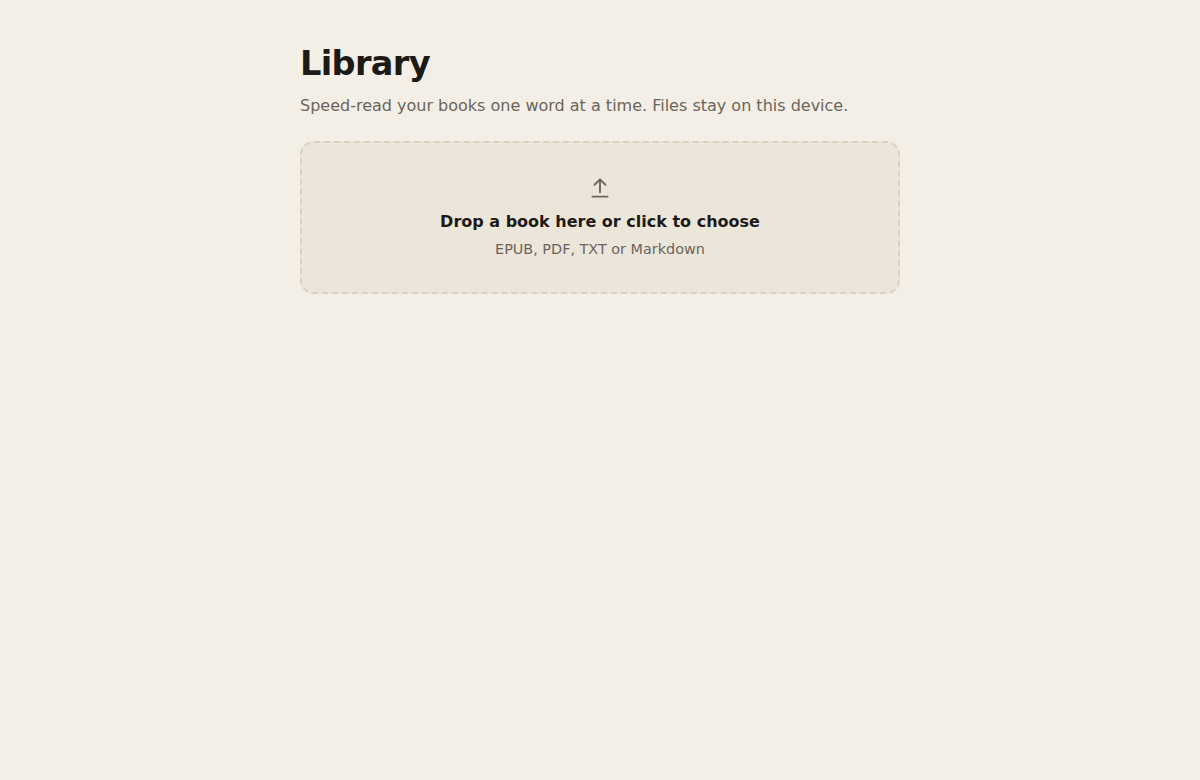
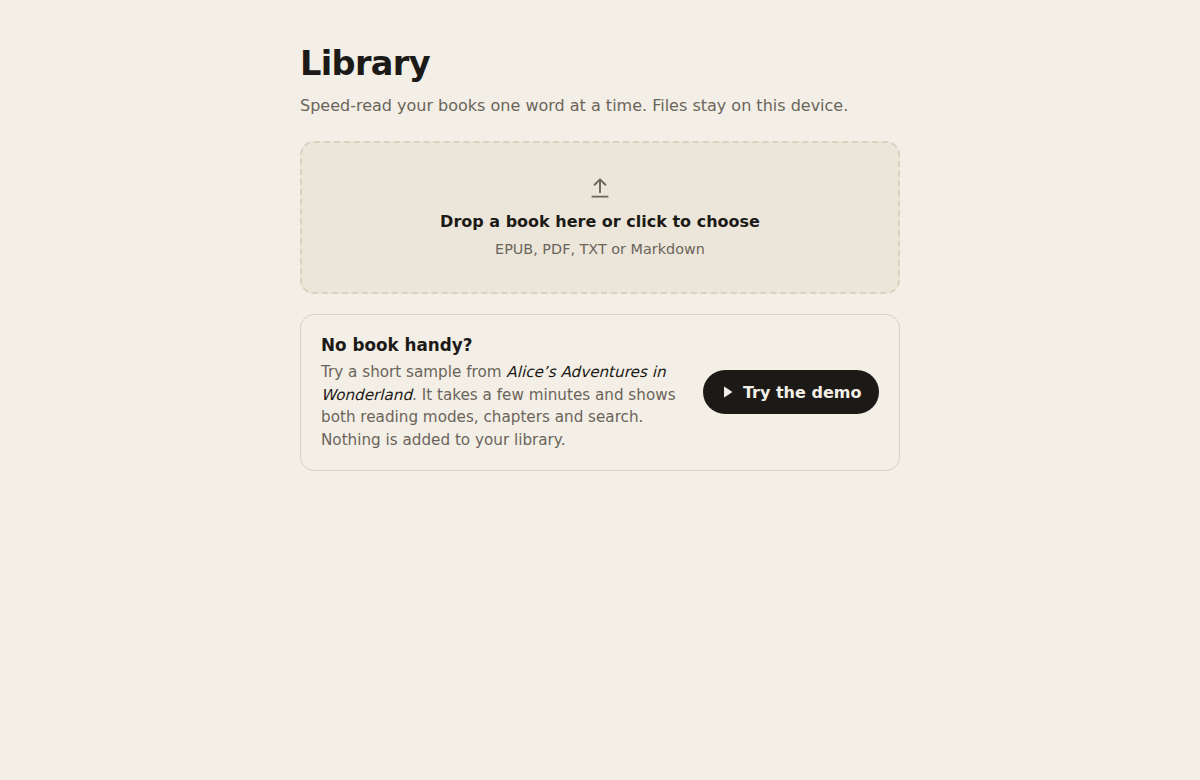
Offer a demo book while the library is empty
First-time visitors had nothing to try without finding a file. While the
library is empty (and only once it has loaded, so it never flashes for
returning readers), the library shows a 'Try the demo' card that opens a
short built-in sample: a 'Before you start' chapter with tips, then the
opening of Alice's Adventures in Wonderland (public domain) with real
chapter headings, so both modes, chapters and search can be tried.

The sample is built in memory and lazy-loaded; it is never added to the
library and its progress isn't saved. The card disappears once a book is
added and returns if every book is removed.

Changed region(s): [[0.2467, 0.4308, 0.555, 0.5846], [0.5858, 0.4615, 0.74, 0.5538]]

diff --git a/src/lib/demo.ts b/src/lib/demo.ts
@@ -1,0 +1,57 @@
+import { buildBook, type Section } from './text'
+import type { Book } from './types'
+
+/**
+ * A short sample book for people who haven't added one yet, so they can try
+ * both reading modes, chapters and search straight away. It is built in
+ * memory and never saved to the library.
+ *
+ * The Alice text is from Lewis Carroll's "Alice's Adventures in Wonderland"
+ * (1865), which is in the public domain.
+ */
+export const DEMO_ID = 'demo:alice'
+export const DEMO_TITLE = 'Alice’s Adventures in Wonderland'
+
+const SECTIONS: Section[] = [
+  {
+    title: 'Before you start',
+    headings: [0],
+    paragraphs: [
+      'Before you start',
+      'This is a short sample so you can see how reading works here. Press play, or tap the word, and the text will appear one word at a time, always in the same spot, so your eyes can stay still.',
+      'Tap again to pause, and the words around you appear so you can find your place. Use the plus and minus buttons to change your speed.',
+      'Open the Aa menu to switch to page mode, where the whole page stays in view and a marker follows along as you read. You can also search for any word or phrase. Try searching for rabbit.',
+      'When you are ready, add a book of your own from the library. It stays on your device.',
+    ],
+  },
+  {
+    title: 'Chapter I: Down the Rabbit-Hole',
+    headings: [0, 1],
+    paragraphs: [
+      'Chapter I',
+      'Down the Rabbit-Hole',
+      'Alice was beginning to get very tired of sitting by her sister on the bank, and of having nothing to do: once or twice she had peeped into the book her sister was reading, but it had no pictures or conversations in it, “and what is the use of a book,” thought Alice, “without pictures or conversations?”',
+      'So she was considering in her own mind (as well as she could, for the hot day made her feel very sleepy and stupid), whether the pleasure of making a daisy-chain would be worth the trouble of getting up and picking the daisies, when suddenly a White Rabbit with pink eyes ran close by her.',
+      'There was nothing so very remarkable in that; nor did Alice think it so very much out of the way to hear the Rabbit say to itself, “Oh dear! Oh dear! I shall be late!” (when she thought it over afterwards, it occurred to her that she ought to have wondered at this, but at the time it all seemed quite natural); but when the Rabbit actually took a watch out of its waistcoat-pocket, and looked at it, and then hurried on, Alice started to her feet, for it flashed across her mind that she had never before seen a rabbit with either a waistcoat-pocket, or a watch to take out of it, and burning with curiosity, she ran across the field after it, and fortunately was just in time to see it pop down a large rabbit-hole under the hedge.',
+      'In another moment down went Alice after it, never once considering how in the world she was to get out again.',
+      'The rabbit-hole went straight on like a tunnel for some way, and then dipped suddenly down, so suddenly that Alice had not a moment to think about stopping herself before she found herself falling down a very deep well.',
+      'Either the well was very deep, or she fell very slowly, for she had plenty of time as she went down to look about her and to wonder what was going to happen next. First, she tried to look down and make out what she was coming to, but it was too dark to see anything; then she looked at the sides of the well, and noticed that they were filled with cupboards and book-shelves; here and there she saw maps and pictures hung upon pegs.',
+      'Down, down, down. Would the fall never come to an end? “I wonder how many miles I’ve fallen by this time?” she said aloud. “I must be getting somewhere near the centre of the earth.”',
+    ],
+  },
+  {
+    title: 'Chapter II: The Pool of Tears',
+    headings: [0, 1],
+    paragraphs: [
+      'Chapter II',
+      'The Pool of Tears',
+      '“Curiouser and curiouser!” cried Alice (she was so much surprised, that for the moment she quite forgot how to speak good English); “now I’m opening out like the largest telescope that ever was! Good-bye, feet!” (for when she looked down at her feet, they seemed to be almost out of sight, they were getting so far off).',
+      'Just then her head struck against the roof of the hall: in fact she was now more than nine feet high, and she at once took up the little golden key and hurried off to the garden door.',
+      'That is the end of the sample. Add a book of your own from the library to keep reading.',
+    ],
+  },
+]
+
+export function createDemoBook(): Book {
+  return buildBook(DEMO_ID, DEMO_TITLE, SECTIONS)
+}

diff --git a/src/App.tsx b/src/App.tsx
@@ -9,10 +9,15 @@ import type { Book, BookMeta, Progress } from './lib/types'
 interface OpenBook {
   book: Book
   startIndex: number
+  /** The built-in sample: not in the library, and its progress isn't saved. */
+  demo?: boolean
 }
 
 export default function App() {
   const [books, setBooks] = useState<BookMeta[]>([])
+  // The demo is offered only once we know the library is empty, so it never
+  // flashes up while a returning reader's books are still loading.
+  const [libraryLoaded, setLibraryLoaded] = useState(false)
   const [progress, setProgress] = useState<Record<string, Progress | undefined>>({})
   const [open, setOpen] = useState<OpenBook | null>(null)
   const [busy, setBusy] = useState<string | null>(null)
@@ -24,6 +29,7 @@ export default function App() {
     const entries = await Promise.all(list.map(async (b) => [b.id, await storage.loadProgress(b.id)] as const))
     setBooks(list)
     setProgress(Object.fromEntries(entries))
+    setLibraryLoaded(true)
   }, [])
 
   useEffect(() => {
@@ -58,12 +64,18 @@ export default function App() {
     else setError('That book is no longer stored. Please upload it again.')
   }
 
+  const handleDemo = async () => {
+    setError(null)
+    const { createDemoBook } = await import('./lib/demo')
+    setOpen({ book: createDemoBook(), startIndex: 0, demo: true })
+  }
+
   const handleDelete = async (id: string) => {
     await storage.deleteBook(id)
     await refreshLibrary()
   }
 
-  const bookId = open?.book.id
+  const bookId = open?.demo ? undefined : open?.book.id
   const handleProgress = useCallback(
     (index: number) => {
       if (bookId) storage.saveProgress(bookId, index).catch(() => {})
@@ -100,6 +112,8 @@ export default function App() {
       wpm={settings.wpm}
       busy={busy}
       error={error}
+      showDemo={libraryLoaded && books.length === 0 && !busy}
+      onDemo={handleDemo}
       onUpload={handleUpload}
       onOpen={handleOpen}
       onDelete={handleDelete}

diff --git a/src/components/Library.tsx b/src/components/Library.tsx
@@ -10,6 +10,9 @@ interface Props {
   wpm: number
   busy: string | null
   error: string | null
+  /** Offer the built-in sample (only while the library is empty). */
+  showDemo: boolean
+  onDemo: () => void
   onUpload: (file: File) => void
   onOpen: (id: string) => void
   onDelete: (id: string) => void
@@ -17,7 +20,7 @@ interface Props {
 
 const FORMATS = 'EPUB, PDF, TXT or Markdown'
 
-export function Library({ books, progress, wpm, busy, error, onUpload, onOpen, onDelete }: Props) {
+export function Library({ books, progress, wpm, busy, error, showDemo, onDemo, onUpload, onOpen, onDelete }: Props) {
   const input = useRef<HTMLInputElement>(null)
   const dragging = useWindowFileDrag((file) => !busy && onUpload(file))
 
@@ -74,6 +77,22 @@ export function Library({ books, progress, wpm, busy, error, onUpload, onOpen, o
           e.target.value = ''
         }}
       />
+
+      {showDemo && (
+        <section className="demo">
+          <div>
+            <h2>No book handy?</h2>
+            <p className="muted">
+              Try a short sample from <em>Alice’s Adventures in Wonderland</em>. It takes a few minutes and shows both
+              reading modes, chapters and search. Nothing is added to your library.
+            </p>
+          </div>
+          <button type="button" className="demo-button" onClick={onDemo}>
+            <Icon name="play" size={18} />
+            Try the demo
+          </button>
+        </section>
+      )}
 
       {error && (
         <p className="error" role="alert">

diff --git a/src/index.css b/src/index.css
@@ -111,6 +111,37 @@ h1, h2, p { margin: 0; }
 }
 
 .library h2 { font-size: 1.25rem; font-weight: 700; margin: 2rem 0 0.5rem; }
+
+/* Sample book offered while the library is empty. */
+.demo {
+  display: flex;
+  align-items: center;
+  gap: 1rem 1.5rem;
+  margin-top: 1.25rem;
+  padding: 1.1rem 1.25rem;
+  border: 1px solid var(--separator);
+  border-radius: 14px;
+}
+.library .demo h2 { margin: 0 0 0.25rem; font-size: 1.05rem; }
+.demo p { font-size: 0.95rem; line-height: 1.5; }
+.demo em { font-style: italic; color: var(--text); }
+.demo-button {
+  flex-shrink: 0;
+  display: inline-flex;
+  align-items: center;
+  gap: 0.45rem;
+  min-height: 44px;
+  padding: 0 1.1rem 0 0.9rem;
+  border: 0;
+  border-radius: 999px;
+  background: var(--text);
+  color: var(--bg);
+  font-weight: 600;
+}
+@media (max-width: 520px) {
+  .demo { flex-direction: column; align-items: stretch; }
+  .demo-button { justify-content: center; }
+}
 .shelf { list-style: none; margin: 0; padding: 0; }
 .shelf-item {
   display: flex;

diff --git a/src/lib/__tests__/demo.test.ts b/src/lib/__tests__/demo.test.ts
@@ -1,0 +1,26 @@
+import { describe, expect, it } from 'vitest'
+import { createDemoBook, DEMO_ID } from '../demo'
+import { buildSearchIndex, search } from '../search'
+
+describe('demo book', () => {
+  const book = createDemoBook()
+
+  it('has chapters with titles set as headings', () => {
+    expect(book.id).toBe(DEMO_ID)
+    expect(book.chapters.map((c) => c.title)).toEqual([
+      'Before you start',
+      'Chapter I: Down the Rabbit-Hole',
+      'Chapter II: The Pool of Tears',
+    ])
+    expect(book.headings?.length).toBe(5)
+  })
+
+  it('is short enough to try in a few minutes', () => {
+    expect(book.words.length).toBeGreaterThan(500)
+    expect(book.words.length / 300).toBeLessThan(5)
+  })
+
+  it('finds "rabbit", as the tips suggest', () => {
+    expect(search(buildSearchIndex(book.words), 'rabbit ').totalMatches).toBeGreaterThan(3)
+  })
+})

diff --git a/README.md b/README.md
@@ -7,6 +7,7 @@ A simple speed-reading app that uses RSVP (Rapid Serial Visual Presentation). Up
 ## Features
 
 - **File upload**: drag and drop or pick a file. Supports `.epub`, `.pdf` (text-based, not scanned), `.txt` and `.md`. All parsing happens in the browser.
+- **Demo for first-time visitors**: while the library is empty, a "Try the demo" card opens a short sample (tips plus the opening of *Alice's Adventures in Wonderland*, public domain) to try both reading modes, chapters and search. The sample is never saved and the card disappears once you add a book.
 - **Two reading modes**, switched in the Aa menu or with `M`:
   - **Word**: RSVP, one word at a time in a fixed spot.
   - **Page**: guided reading. The book is laid out as pages that fit your screen. The current word is softly highlighted and a thin pacer line sweeps steadily along each line at your chosen speed (the first word of each line gets a beat more for the return sweep), and the page turns itself when you reach the end: the old page slides out as the new one slides in, the marker fades in on the first word, and that word gets a little extra time so your eyes can move to the top. Pages end at a sentence when one falls on the last two lines. Tap any word to jump there. Pages are measured to fit exactly and re-flow when you rotate or resize.
@@ -59,6 +60,7 @@ npm run build    # type-check and build for production
 ```
 src/
   lib/
+    demo.ts            built-in sample book offered while the library is empty
     rsvp.ts            ORP, word timing and timeline, sentence navigation
     pages.ts           page anchoring and paragraph grouping for page mode
     search.ts          full-text search: word index, word forms, related passages, typo fallback
